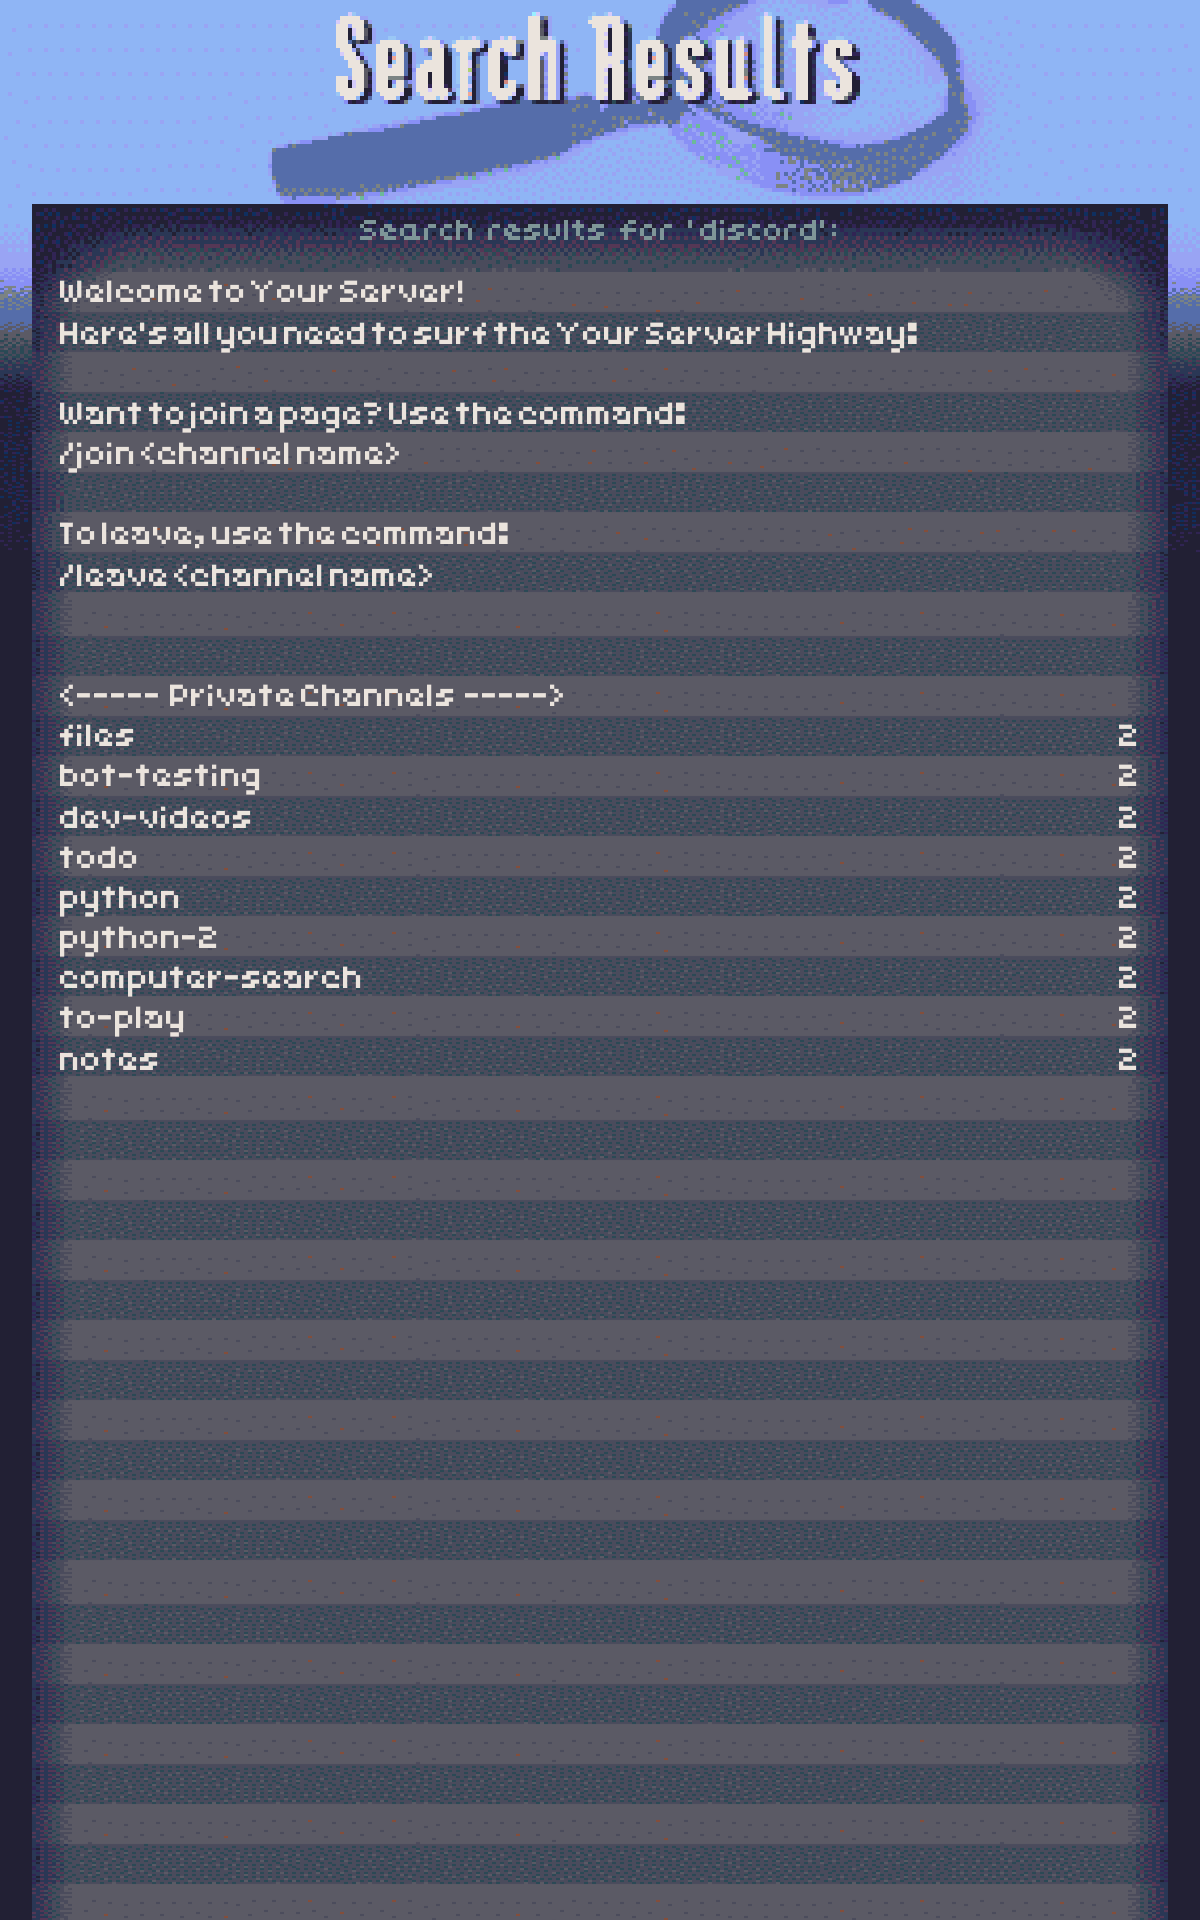
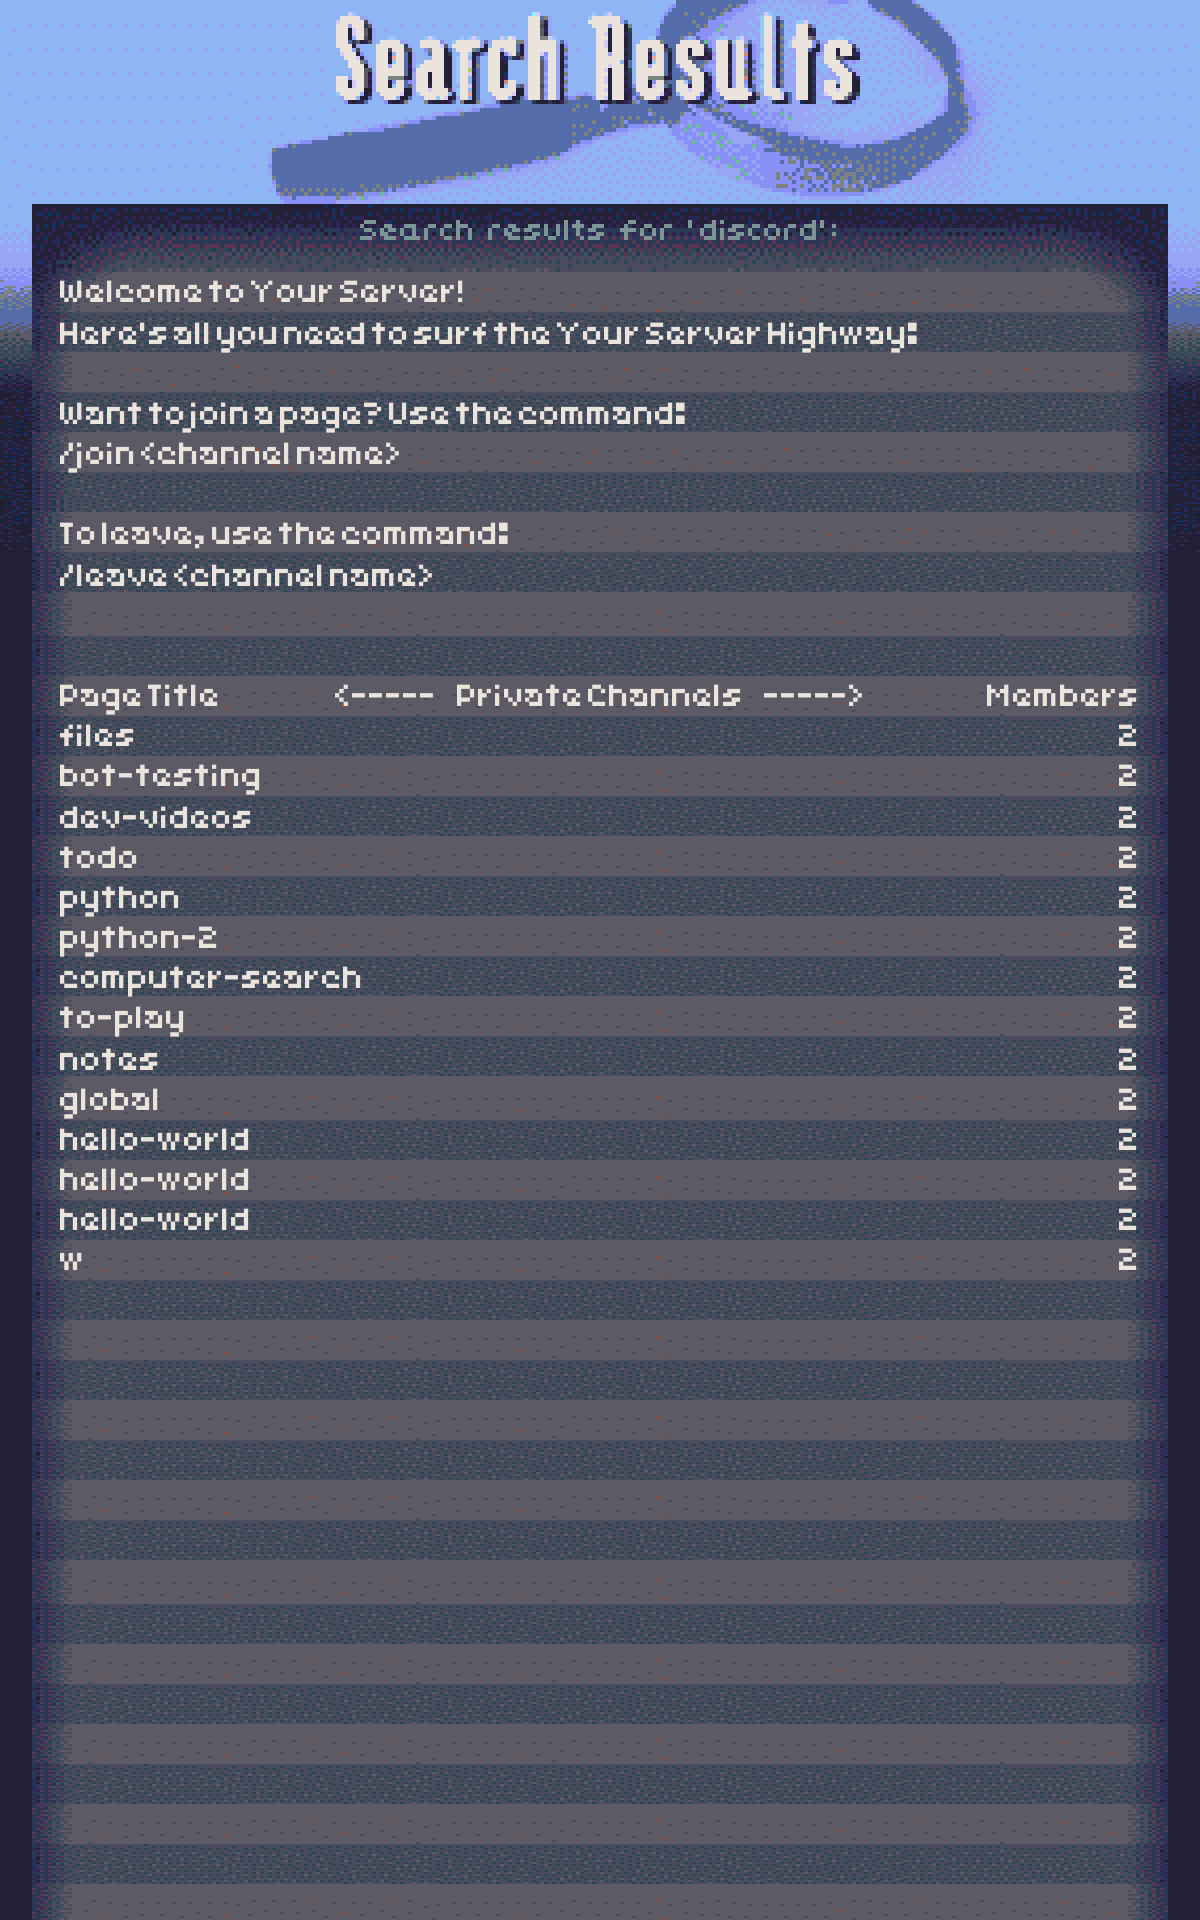
Add create command

diff --git a/src/commands/Core/categories.ts b/src/commands/Core/categories.ts
@@ -23,24 +23,28 @@ export class CategoriesCommand extends Command {
 		if (!interaction.guild) throw new Error('Sorry, this command can only run in guilds.');
 
 		const type = interaction.options.getSubcommand(true);
-		const id = String(interaction.options.get('id')?.value) || '';
+		const id = String(interaction.options.get('name')?.value) || '';
 
 		const categoryIds: String[] = await container.db.get(`categories_${interaction.guild.id}`) || [];
 
 		if (type === 'list') {
-			if (categoryIds.length === 0) return interaction.reply(`> No categories found!`)
+			if (categoryIds.length === 0) return interaction.reply(`> No categories found!`);
 			else {
 				const categories = interaction.guild.channels.cache.filter(c => categoryIds.includes(c.id));
 				return interaction.reply(`>>> **Categories**\n\`\`\`${categories.map(c => c.name).join('\n')}\`\`\``)
 			}
 		} else if (type === 'add') {
-			if (categoryIds.includes(id)) return interaction.reply("> That category is already added!")
+			if (categoryIds.includes(id)) return interaction.reply("> That category is already added!");
 			await container.db.push(`categories_${interaction.guild.id}`, id);
 			return interaction.reply('> Category Added!')
 		} else if (type === 'remove') {
-			if (!categoryIds.includes(id)) throw new Error("Category has not been added")
+			if (!categoryIds.includes(id)) throw new Error("Category has not been added!")
 			await container.db.pull(`categories_${interaction.guild.id}`, id)
 			return interaction.reply('> Category Removed!')
+		} else if (type === 'set') {
+			if (!categoryIds.includes(id)) throw new Error("Category has not been added!");
+			await container.db.set(`activeCategory_${interaction.guild.id}`, id);
+			return interaction.reply(`> The active category has been set to \`${id}\``);
 		}
 	}
 
@@ -55,11 +59,11 @@ export class CategoriesCommand extends Command {
 			if (!categories) throw new Error("Unable to fetch categories...");
 			if (categories.size === 0) return;
 
-			return interaction.respond(categories.map((c) => ({ name: c.name, value: c.id })))
-		} else if (type === 'remove') {
+			return interaction.respond(categories.map((c) => ({ name: c.name, value: c.id })).slice(0, 25))
+		} else if (type === 'remove' || type === 'set') {
 			const categoryIds: String[] = await container.db.get(`categories_${interaction.guild.id}`) || [];
 			const categories = interaction.guild.channels.cache.filter(c => categoryIds.includes(c.id) && c.name.toLowerCase().includes(query));
-			return interaction.respond(categories.map((c) => ({ name: c.name, value: c.id })))
+			return interaction.respond(categories.map((c) => ({ name: c.name, value: c.id })).slice(0, 25))
 		}
 	}
 
@@ -70,10 +74,13 @@ export class CategoriesCommand extends Command {
 				.setDescription('List or add a category to the joinable catalog')
 				.addSubcommand(subcommand => subcommand.setName('add').setDescription('Add category')
 					.addStringOption(option => //
-						option.setName('id').setDescription('The name of the piece to reload').setRequired(true).setAutocomplete(true)))
+						option.setName('name').setDescription('The name or ID of the category').setRequired(true).setAutocomplete(true)))
 				.addSubcommand(subcommand => subcommand.setName('remove').setDescription('Remove category')
 					.addStringOption(option => //
-						option.setName('id').setDescription('The name of the store to reload').setRequired(true).setAutocomplete(true)))
+						option.setName('name').setDescription('The name or ID of the category').setRequired(true).setAutocomplete(true)))
+				.addSubcommand(subcommand => subcommand.setName('set').setDescription('Set the category new channels are created in')
+					.addStringOption(option => //
+						option.setName('name').setDescription('The name or ID of the category').setRequired(true).setAutocomplete(true)))
 				.addSubcommand(subcommand => subcommand.setName('list').setDescription('List joinable categories')),
 			{ behaviorWhenNotIdentical: RegisterBehavior.Overwrite }
 		);

diff --git a/src/commands/Core/create.ts b/src/commands/Core/create.ts
@@ -1,0 +1,79 @@
+import { ApplyOptions } from '@sapphire/decorators';
+import {
+	Command,
+	CommandOptions,
+	RegisterBehavior,
+} from '@sapphire/framework';
+import { MessageEmbed } from 'discord.js';
+import { updateGUI } from '../../lib/utils';
+
+@ApplyOptions<CommandOptions>({
+	name: 'create',
+	description: 'Creates a channel.',
+	requiredClientPermissions: ['EMBED_LINKS', 'MANAGE_CHANNELS'],
+	chatInputCommand: {
+		register: true,
+		guildIds: ['608178003393904650']
+	},
+})
+export class CategoriesCommand extends Command {
+	async chatInputRun(interaction: Command.ChatInputInteraction) {
+		if (!interaction.guild) throw new Error('> Sorry, this command can only run in guilds.');
+
+		const name = (interaction.options.get('name')?.value || '').toString();
+		const member = await interaction.guild.members.fetch(interaction.user.id);
+
+		// Validate channel name
+		if (name.length === 0) return interaction.reply("> Please provide a channel name.")
+
+		// Check if they already are managers of 2 channels
+		const channels = await interaction.guild.channels.fetch();
+		const hasPermissionsIn = channels.filter(c => c.permissionsFor(member).has('MANAGE_CHANNELS')).size;
+		if (hasPermissionsIn >= 2 && !member.permissions.has('MANAGE_GUILD')) return interaction.reply("> Sorry, you're already managing 2 channels.");
+
+		// Get the active category
+		const categoryId: string = await this.container.db.get(`categories_${interaction.guild.id}`) || '';
+		if (!categoryId) throw new Error("> Sorry, this server doesn't have the active category set.");
+		const category = await interaction.guild.channels.fetch(categoryId);
+		if (category === null || category.type !== 'GUILD_CATEGORY') throw new Error('> Sorry, the active category is not a category.');
+
+		// Create the channel in the active category
+		const channel = await interaction.guild.channels.create(name, {
+			type: "GUILD_TEXT",
+			permissionOverwrites: [{
+				id: interaction.guild.id,
+				deny: ['VIEW_CHANNEL', 'SEND_MESSAGES']
+			},
+			{
+				id: interaction.user.id,
+				allow: ['VIEW_CHANNEL', 'MANAGE_CHANNELS', 'MANAGE_MESSAGES', 'MANAGE_THREADS']
+			}],
+			parent: category
+		});
+
+		// Send message in channel
+		const embed = new MessageEmbed()
+			.setColor(0x8349c3)
+			.setTitle(`Hello ${member.user.username}!`)
+			.setDescription(`I'm **Professor Helper**, let me introduce you to your new page in the wonderful world of **Hypnospace**!\n\nCurrently, you're the only person here. Although, others can join you by doing \`/join ${channel.name}\`, or by creating a \`/portal\` in another channel!\n\nLastly, while you have full permissions to manage this channel and send messages, others will only be able to view. But don't fret, you can create threads if you want to communicate with them!\n\nEnjoy!\n- Professor Helper`)
+			.setThumbnail('https://fs.plexidev.org/api/JBNtvtm.gif')
+			.setFooter({ text: 'And remember, Merchantsoft is always watching!' })
+
+		await channel.send({ embeds: [embed], content: `${member.toString()}, over here!` });
+
+		// Update the GUI
+		await interaction.reply(`> Created channel \`${name}\`...`)
+		await updateGUI(interaction.guild);
+	}
+
+	registerApplicationCommands(registry: Command.Registry) {
+		registry.registerChatInputCommand((builder) =>
+			builder
+				.setName('create')
+				.setDescription('Creates a channel')
+				.addStringOption(option => //
+					option.setName('name').setDescription('The name of the channel to create').setRequired(true)),
+			{ behaviorWhenNotIdentical: RegisterBehavior.Overwrite }
+		);
+	}
+}

diff --git a/src/lib/utils.ts b/src/lib/utils.ts
@@ -51,8 +51,8 @@ export async function getAllJoinableChannels(guild: Guild): Promise<any> {
 
 
 /**
- * Generate a list using JIMP
- * @param lines
+ * Update the GUI for a guild
+ * @param guild
  */
 
 export async function updateGUI(guild: Guild): Promise<any> {
@@ -66,7 +66,7 @@ export async function updateGUI(guild: Guild): Promise<any> {
 	const channelList = [];
 	for (const [_, category] of categories.entries()) {
 		if (category.type !== 'GUILD_CATEGORY') continue;
-		channelList.push(`<-----  ${category.name}  ----->`);
+		channelList.push(['Page Title', `<-----     ${category.name}     ----->`, 'Members']);
 		for (const [_, channel] of category.children.entries()) {
 			channelList.push([channel.name, channel.members.size.toLocaleString("en-US")]);
 		}
@@ -106,7 +106,7 @@ export async function updateGUI(guild: Guild): Promise<any> {
 }
 
 /**
- * TODO: Rewrite
+ * TODO: Rewrite and organize this
  * Generate a list using JIMP
  * @param lines
  */
@@ -125,9 +125,16 @@ export async function generateList(basePath: string, lines: (string | string[])[
 	// First Page
 	while (lines.length !== i) {
 		if (typeof lines[i] === 'string') bg.print(font, 60, y, lines[i]);
-		else {
+		else if (lines.length === 0) {
+			bg.print(font, 60, y, lines[i][0]);
+		}
+		else if (lines[i].length === 2) {
 			bg.print(font, 60, y, lines[i][0]);
 			bg.print(font, -60, y, { text: lines[i][1], alignmentX: Jimp.HORIZONTAL_ALIGN_RIGHT }, 1200, 60);
+		} else if (lines[i].length === 3) {
+			bg.print(font, 60, y, lines[i][0]);
+			bg.print(font, 0, y, { text: lines[i][1], alignmentX: Jimp.HORIZONTAL_ALIGN_CENTER }, 1200, 60);
+			bg.print(font, -60, y, { text: lines[i][2], alignmentX: Jimp.HORIZONTAL_ALIGN_RIGHT }, 1200, 60);
 		}
 		y += 40;
 		y += i % 6 ? 0 : 2;
@@ -143,9 +150,16 @@ export async function generateList(basePath: string, lines: (string | string[])[
 		let ei = 1;
 		while (lines.length !== i) {
 			if (typeof lines[i] === 'string') bg.print(font, 60, y, lines[i]);
-			else {
+			else if (lines.length === 0) {
+				bg.print(font, 60, y, lines[i][0]);
+			}
+			else if (lines[i].length === 2) {
 				bg.print(font, 60, y, lines[i][0]);
 				bg.print(font, -60, y, { text: lines[i][1], alignmentX: Jimp.HORIZONTAL_ALIGN_RIGHT }, 1200, 60);
+			} else if (lines[i].length === 3) {
+				bg.print(font, 60, y, lines[i][0]);
+				bg.print(font, 0, y, { text: lines[i][1], alignmentX: Jimp.HORIZONTAL_ALIGN_CENTER }, 1200, 60);
+				bg.print(font, -60, y, { text: lines[i][2], alignmentX: Jimp.HORIZONTAL_ALIGN_RIGHT }, 1200, 60);
 			}
 			y += 40;
 			i++;

diff --git a/src/commands/Core/join.ts b/src/commands/Core/join.ts
@@ -6,6 +6,7 @@ import {
 	container,
 	RegisterBehavior,
 } from '@sapphire/framework';
+import { updateGUI } from '../../lib/utils';
 
 @ApplyOptions<CommandOptions>({
 	name: 'join',
@@ -29,7 +30,9 @@ export class CategoriesCommand extends Command {
 		if (!categoryIds.includes(channel.parentId)) throw new Error("Sorry, that channel is not joinable.");
 
 		channel.permissionOverwrites.edit(interaction.user, { SEND_MESSAGES: true });
-		return interaction.reply(`> Successully added you to ${channel.toString()}`)
+		await interaction.reply(`> Successully added you to ${channel.toString()}`);
+
+		await updateGUI(interaction.guild);
 	}
 
 	public async autocompleteRun(...[interaction]: Parameters<AutocompleteCommand['autocompleteRun']>) {
@@ -48,8 +51,7 @@ export class CategoriesCommand extends Command {
 			}
 		}
 
-		return interaction.respond(children)
-
+		return interaction.respond(children.slice(0, 25));
 	}
 
 	registerApplicationCommands(registry: Command.Registry) {

diff --git a/src/commands/Core/gui.ts b/src/commands/Core/gui.ts
@@ -10,6 +10,7 @@ import { getMessageFromUrl, updateGUI } from '../../lib/utils';
 @ApplyOptions<CommandOptions>({
 	name: 'gui',
 	description: 'Creates a GUI of joininable channels.',
+	requiredUserPermissions: ['MANAGE_GUILD'],
 	requiredClientPermissions: ['EMBED_LINKS', 'MANAGE_CHANNELS'],
 	chatInputCommand: {
 		register: true,
